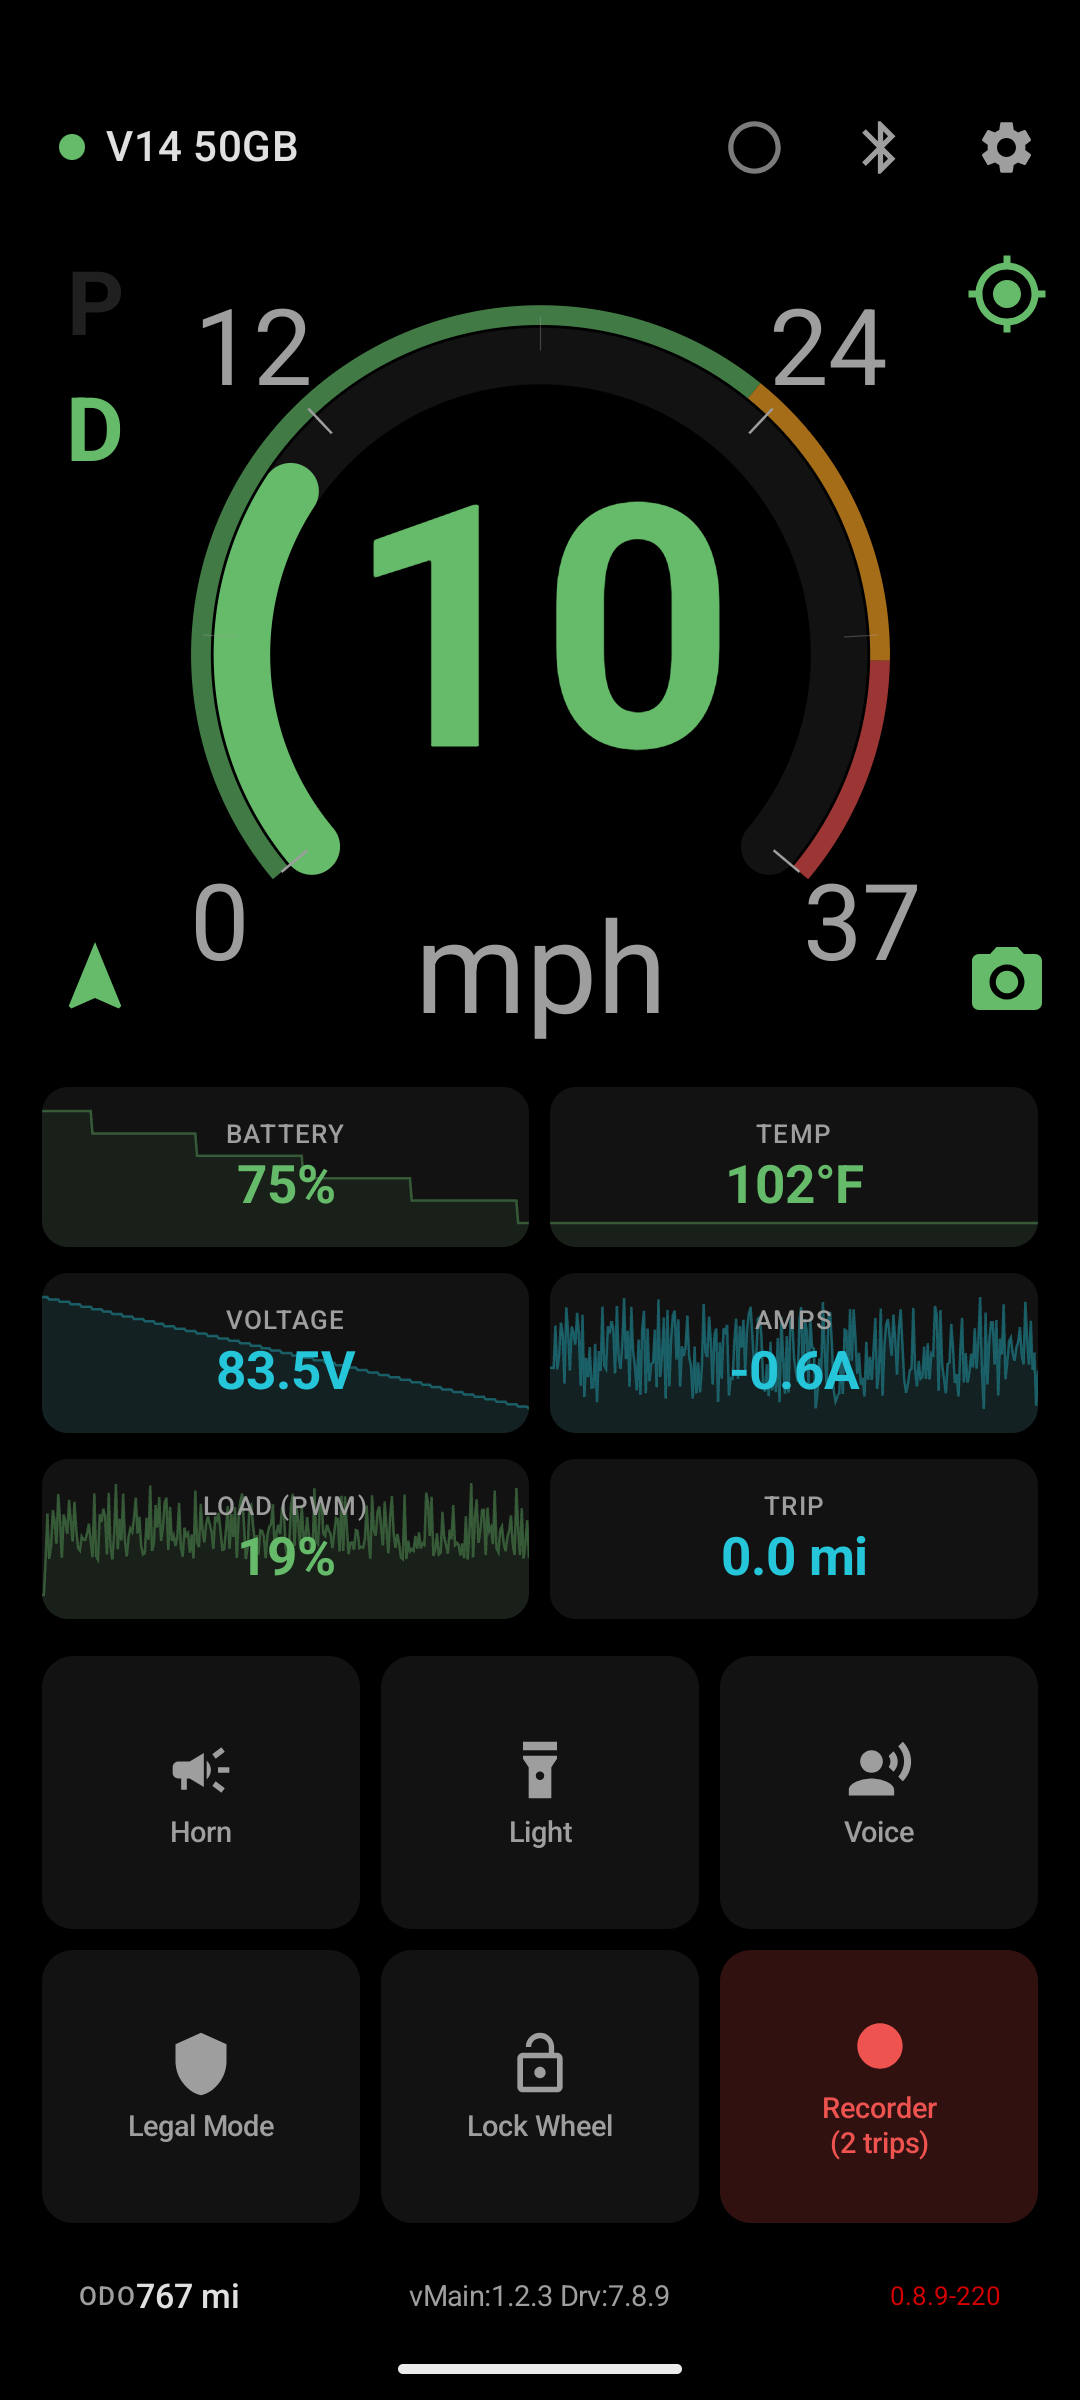
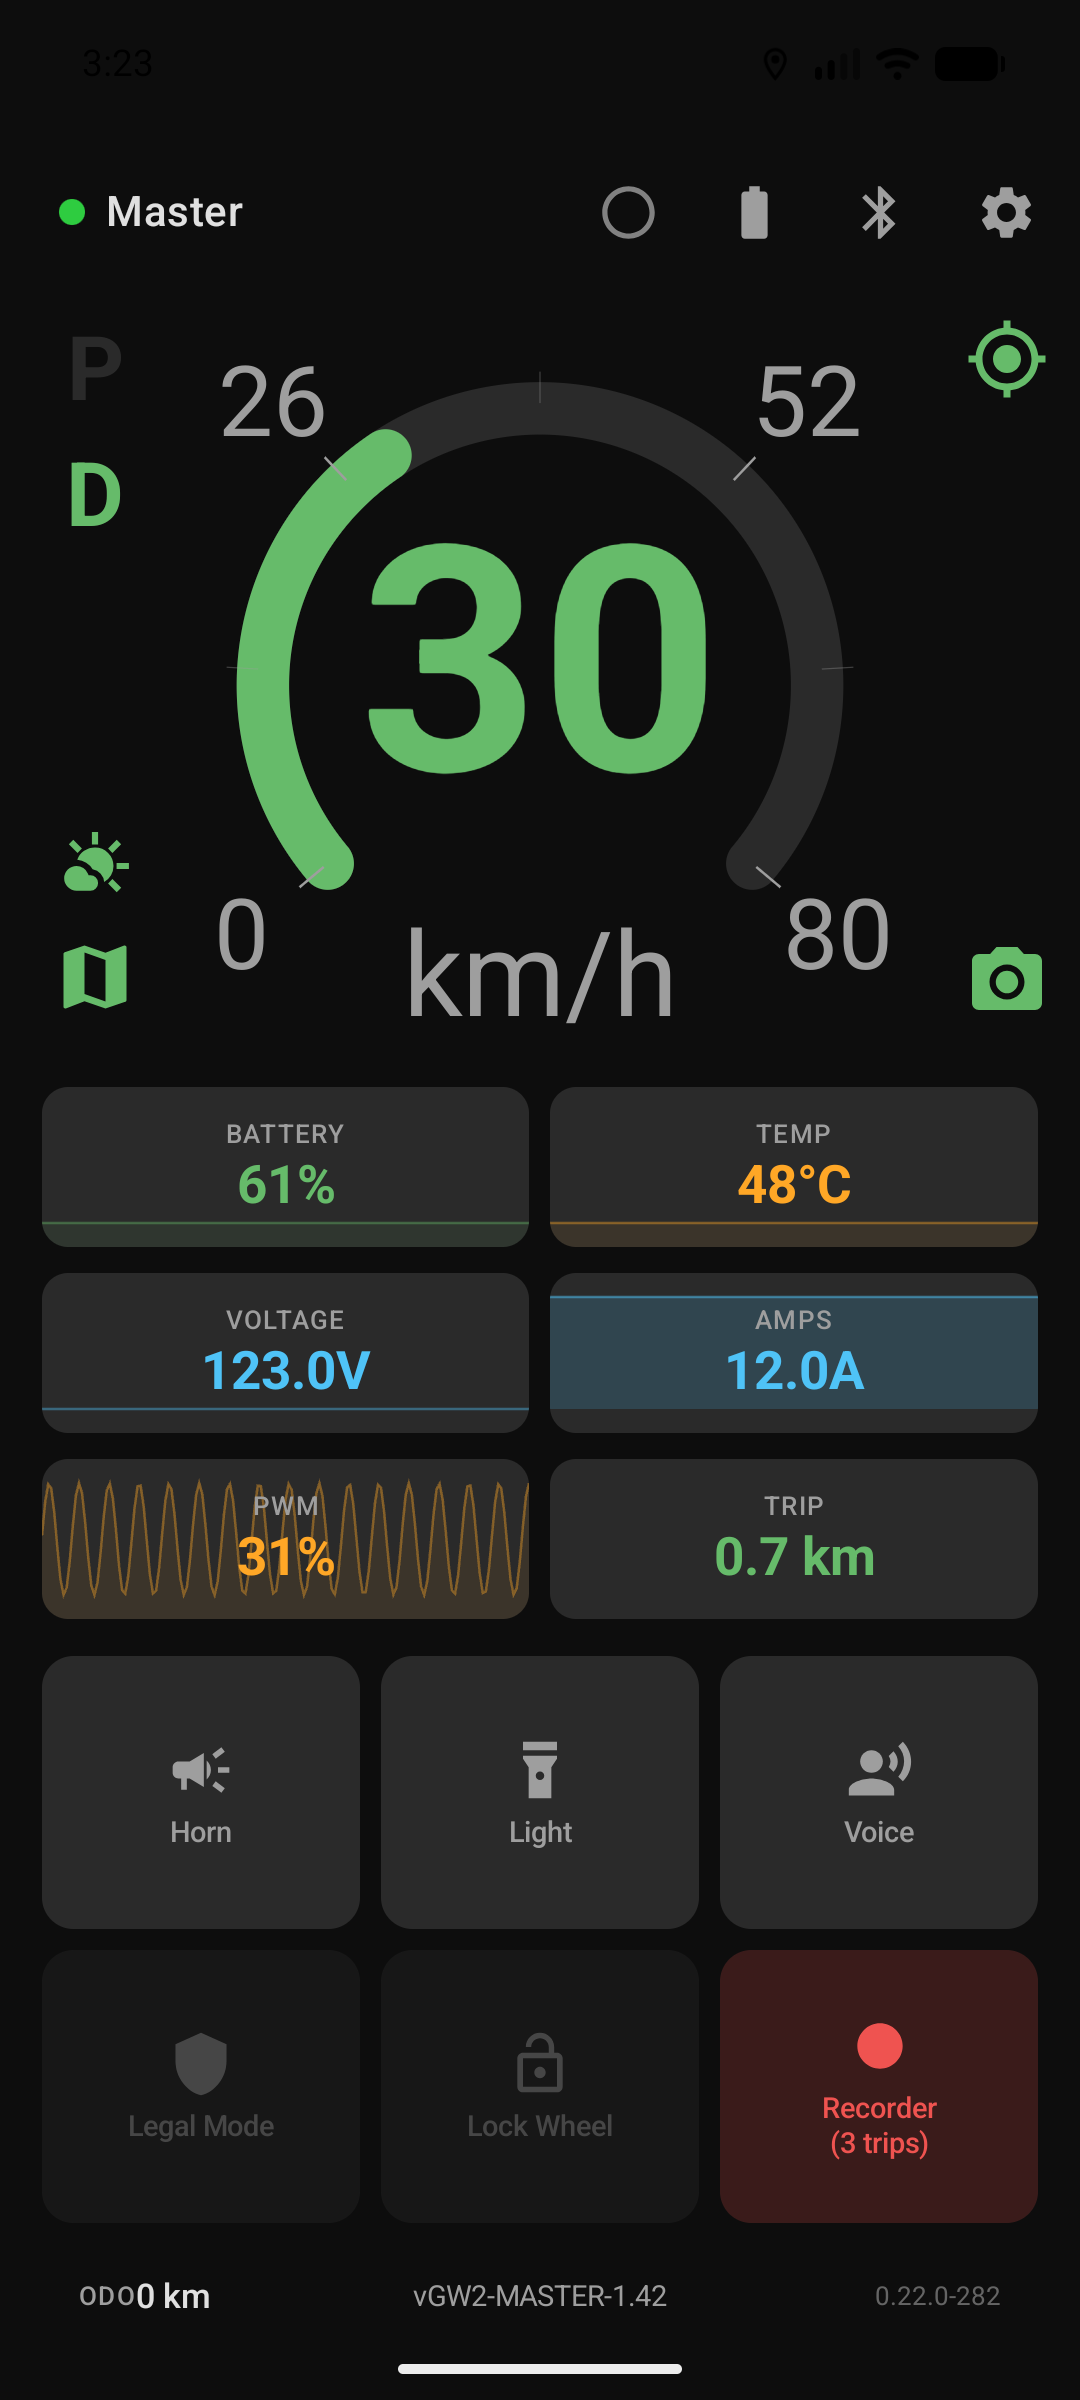
docs(site): new look-inside shots: dashboard, Paris navigator, forecast with theme editor, live sharing
Claude-Session: https://claude.ai/code/session_01GHUZZ33sT9FYS6sXiMogJc

diff --git a/docs/index.html b/docs/index.html
@@ -820,15 +820,15 @@
     </div>
     <div class="gallery-featured">
       <a href="screenshots/dashboard.png"><img src="screenshots/dashboard.png" alt="Dashboard with speed dial and live tiles" loading="lazy"></a>
-      <a href="screenshots/navigator.png"><img src="screenshots/navigator.png" alt="Turn-by-turn navigator with multi-stop route" loading="lazy"></a>
+      <a href="screenshots/navigator.png"><img src="screenshots/navigator.png" alt="Navigator: a bike route through Paris with a custom rider marker" loading="lazy"></a>
       <a href="screenshots/studio.png"><img src="screenshots/studio.png" alt="Overlay Studio: video recorder with telemetry" loading="lazy"></a>
       <a href="screenshots/compare.png"><img src="screenshots/compare.png" alt="Compare live data against past rides" loading="lazy"></a>
     </div>
     <div class="gallery-thumbs">
       <a href="screenshots/trips.png"><img src="screenshots/trips.png" alt="Trip list" loading="lazy"></a>
       <a href="screenshots/studio-export.png"><img src="screenshots/studio-export.png" alt="Studio transparent-overlay export" loading="lazy"></a>
-      <a href="screenshots/navigator-sat.png"><img src="screenshots/navigator-sat.png" alt="Navigator over satellite imagery" loading="lazy"></a>
-      <a href="screenshots/settings.png"><img src="screenshots/settings.png" alt="Custom units, themes and accent colors" loading="lazy"></a>
+      <a href="screenshots/weather-theme.png"><img src="screenshots/weather-theme.png" alt="Ride forecast over the light theme, with the live theme editor open" loading="lazy"></a>
+      <a href="screenshots/share-live.png"><img src="screenshots/share-live.png" alt="Share your ride live with a group" loading="lazy"></a>
     </div>
   </section>
 

diff --git a/README.md b/README.md
@@ -46,7 +46,7 @@ Already connects but a reading looks wrong? See the [in-app diagnostics guide](d
 
 <img src="docs/screenshots/dashboard.png" width="22%" alt="Dashboard" /> <img src="docs/screenshots/navigator.png" width="22%" alt="Turn-by-turn navigator" /> <img src="docs/screenshots/studio.png" width="22%" alt="Overlay Studio" /> <img src="docs/screenshots/compare.png" width="22%" alt="Compare" />
 
-<img src="docs/screenshots/trips.png" width="22%" alt="Trip list" /> <img src="docs/screenshots/studio-export.png" width="22%" alt="Studio transparent export" /> <img src="docs/screenshots/navigator-sat.png" width="22%" alt="Navigator over satellite" /> <img src="docs/screenshots/settings.png" width="22%" alt="Settings" />
+<img src="docs/screenshots/trips.png" width="22%" alt="Trip list" /> <img src="docs/screenshots/studio-export.png" width="22%" alt="Studio transparent export" /> <img src="docs/screenshots/weather-theme.png" width="22%" alt="Ride forecast and theme editor" /> <img src="docs/screenshots/share-live.png" width="22%" alt="Share your ride live" />
 
 <table>
 <tr>
